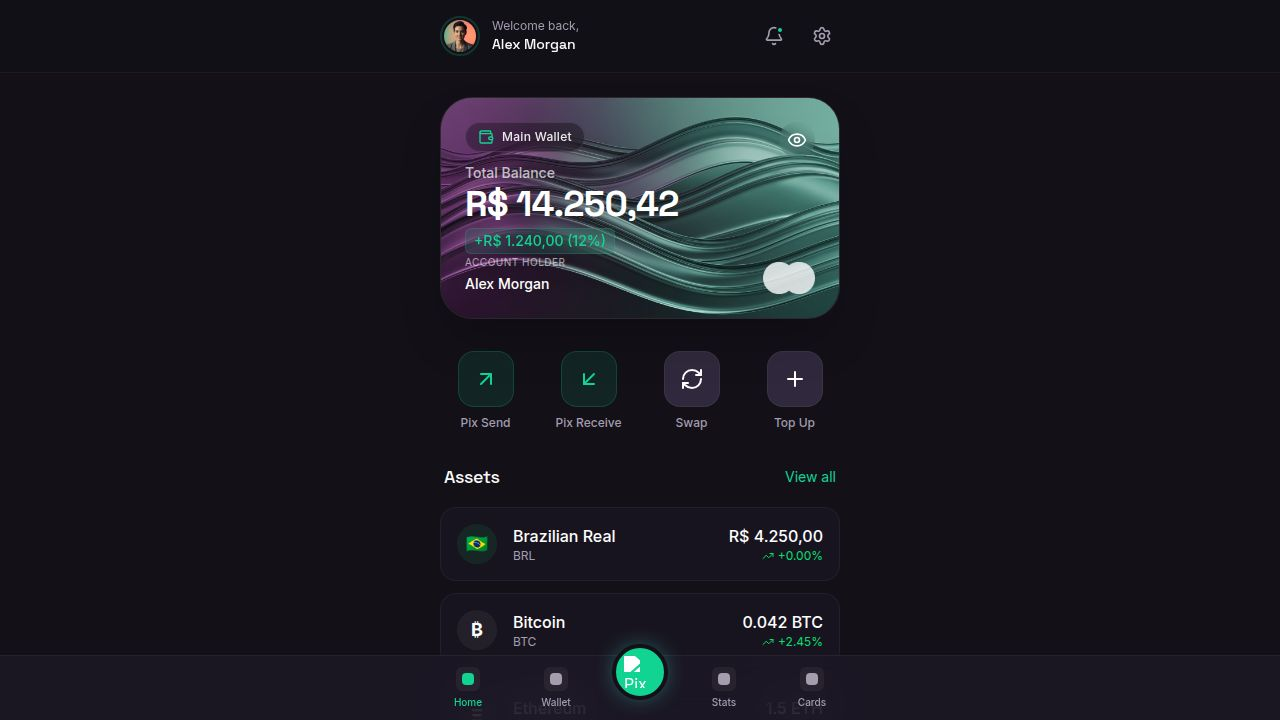
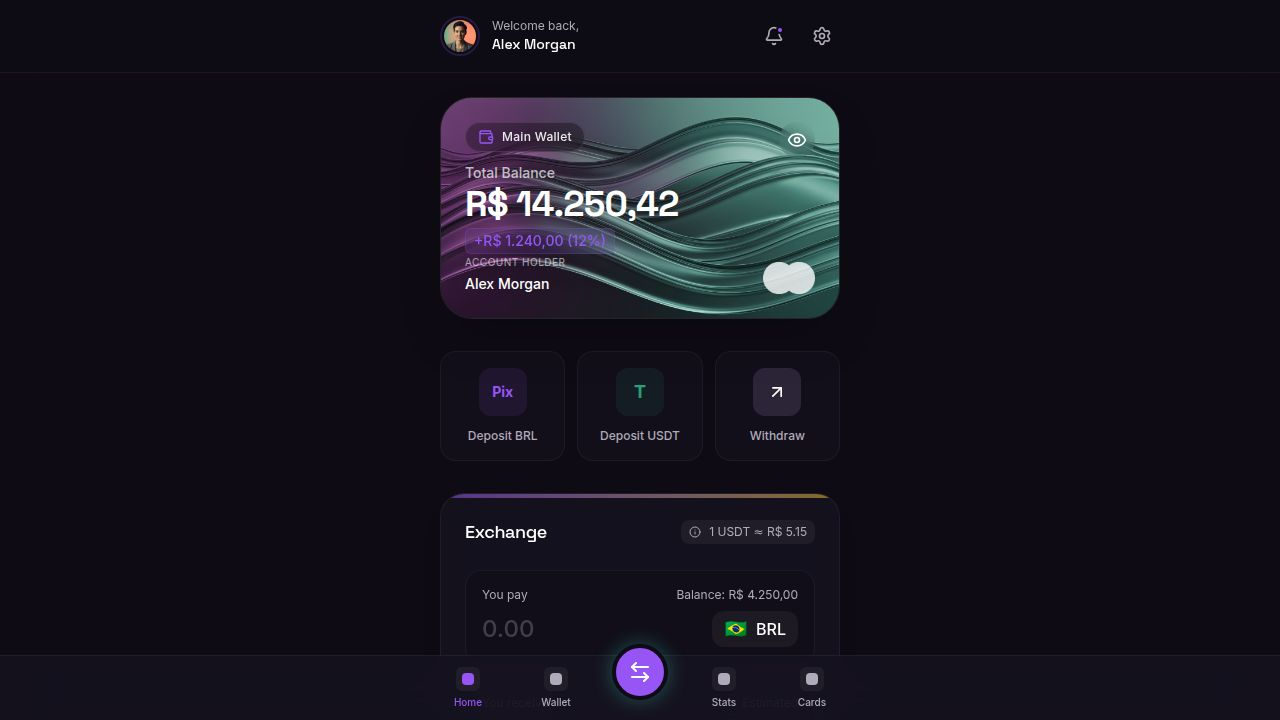
Rebrand the application to Otsem Pay with new visual identity
Update application name, logo, and color scheme across various components, including the welcome screen, authentication page, and global CSS variables to reflect the new Otsem Pay branding.

Replit-Commit-Author: Agent
Replit-Commit-Session-Id: dfc3b8e4-6037-4ea7-bff7-f856124784c7
Replit-Commit-Checkpoint-Type: full_checkpoint
Replit-Commit-Event-Id: 7baedd3e-aabb-4c53-a087-f94e5cf47044
Replit-Commit-Screenshot-Url: https://storage.googleapis.com/screenshot-production-us-central1/30512e0b-ed53-48b6-a74d-8db04d5b028a/dfc3b8e4-6037-4ea7-bff7-f856124784c7/8QmaOEe

diff --git a/client/src/pages/auth.tsx b/client/src/pages/auth.tsx
@@ -4,7 +4,7 @@ import { Button } from "@/components/ui/button";
 import { Input } from "@/components/ui/input";
 import { ArrowRight, Mail, Lock, User, Eye, EyeOff, Users } from "lucide-react";
 import { useLocation } from "wouter";
-import bgImage from "@assets/generated_images/abstract_dark_purple_and_neon_green_3d_glass_waves_for_crypto_card_background.png";
+import logo from "@assets/Untitled_1764830265098.png";
 
 export default function Auth() {
   const [isLogin, setIsLogin] = useState(true);
@@ -20,23 +20,17 @@ export default function Auth() {
   };
 
   return (
-    <div className="min-h-screen bg-background text-foreground flex flex-col relative overflow-hidden">
+    <div className="min-h-screen bg-otsem-gradient text-foreground flex flex-col relative overflow-hidden">
       {/* Background Accent */}
-      <div className="absolute inset-0 z-0 opacity-20">
-         <div 
-            className="absolute inset-0 bg-cover bg-center"
-            style={{ backgroundImage: `url(${bgImage})` }}
-          />
-          <div className="absolute inset-0 bg-gradient-to-b from-background via-background/90 to-background" />
+      <div className="absolute inset-0 z-0">
+          <div className="absolute top-0 left-0 w-full h-1/2 bg-gradient-to-b from-primary/10 to-transparent" />
+          <div className="absolute bottom-0 right-0 w-full h-1/2 bg-gradient-to-t from-accent/5 to-transparent" />
       </div>
 
       <div className="relative z-10 flex-1 flex flex-col p-6">
         {/* Header */}
-        <div className="pt-12 pb-8 text-center">
-          <div className="w-16 h-16 bg-primary rounded-2xl flex items-center justify-center mx-auto mb-6 shadow-[0_0_30px_rgba(50,188,173,0.3)] rotate-3">
-             <img src="https://upload.wikimedia.org/wikipedia/commons/thumb/d/d0/Pix_logo_2020.svg/2560px-Pix_logo_2020.svg.png" className="w-8 h-8 invert brightness-0" alt="Logo" />
-          </div>
-          <h1 className="text-3xl font-display font-bold mb-2">PixVault</h1>
+        <div className="pt-12 pb-8 text-center flex flex-col items-center">
+          <img src={logo} alt="Otsem Pay" className="w-32 h-auto mb-6 drop-shadow-lg" />
           <p className="text-muted-foreground text-sm">The future of crypto payments</p>
         </div>
 
@@ -129,7 +123,7 @@ export default function Auth() {
               </div>
             )}
 
-            <Button className="w-full h-14 text-lg rounded-xl bg-primary text-primary-foreground hover:bg-primary/90 mt-4 shadow-[0_4px_20px_rgba(50,188,173,0.2)]">
+            <Button className="w-full h-14 text-lg rounded-xl bg-primary text-white hover:bg-primary/90 mt-4 shadow-[0_4px_20px_rgba(139,92,246,0.2)] font-bold">
               {isLogin ? "Sign In" : "Create Account"}
               <ArrowRight className="w-5 h-5 ml-2" />
             </Button>

diff --git a/client/src/pages/welcome.tsx b/client/src/pages/welcome.tsx
@@ -1,0 +1,63 @@
+import { motion } from "framer-motion";
+import { Button } from "@/components/ui/button";
+import { useLocation } from "wouter";
+import logo from "@assets/Untitled_1764830265098.png";
+
+export default function Welcome() {
+  const [, setLocation] = useLocation();
+
+  return (
+    <div className="min-h-screen bg-otsem-gradient text-foreground flex flex-col relative overflow-hidden">
+      {/* Background decorative elements */}
+      <div className="absolute top-[-20%] left-[-20%] w-[80%] h-[80%] bg-primary/20 blur-[120px] rounded-full pointer-events-none mix-blend-screen" />
+      <div className="absolute bottom-[-20%] right-[-20%] w-[80%] h-[80%] bg-accent/10 blur-[120px] rounded-full pointer-events-none mix-blend-screen" />
+
+      <div className="flex-1 flex flex-col items-center justify-center p-8 relative z-10">
+        <motion.div
+          initial={{ scale: 0.8, opacity: 0 }}
+          animate={{ scale: 1, opacity: 1 }}
+          transition={{ duration: 0.8, ease: "easeOut" }}
+          className="mb-12"
+        >
+          <img src={logo} alt="Otsem Pay" className="w-48 h-auto drop-shadow-2xl" />
+        </motion.div>
+
+        <motion.div
+          initial={{ y: 20, opacity: 0 }}
+          animate={{ y: 0, opacity: 1 }}
+          transition={{ delay: 0.3, duration: 0.6 }}
+          className="text-center space-y-4 max-w-xs"
+        >
+          <h1 className="text-4xl font-display font-bold tracking-tight">
+            Future of <span className="text-gradient">Payments</span>
+          </h1>
+          <p className="text-muted-foreground text-lg">
+            Seamlessly manage BRL, Pix, and Crypto in one beautiful app.
+          </p>
+        </motion.div>
+      </div>
+
+      <motion.div
+        initial={{ y: 50, opacity: 0 }}
+        animate={{ y: 0, opacity: 1 }}
+        transition={{ delay: 0.6, duration: 0.6 }}
+        className="p-8 w-full max-w-md mx-auto space-y-4 relative z-10"
+      >
+        <Button 
+          className="w-full h-16 text-lg rounded-2xl bg-primary text-white hover:bg-primary/90 shadow-[0_0_20px_rgba(139,92,246,0.3)] font-bold transition-all hover:scale-[1.02]"
+          onClick={() => setLocation("/auth")}
+        >
+          Get Started
+        </Button>
+        
+        <Button 
+          variant="outline" 
+          className="w-full h-16 text-lg rounded-2xl border-white/10 bg-white/5 hover:bg-white/10 text-white backdrop-blur-md transition-all hover:scale-[1.02]"
+          onClick={() => setLocation("/auth")}
+        >
+          I have an account
+        </Button>
+      </motion.div>
+    </div>
+  );
+}

diff --git a/client/src/index.css b/client/src/index.css
@@ -7,33 +7,35 @@
   --font-sans: "Inter", sans-serif;
   --font-display: "Space Grotesk", sans-serif;
 
-  --color-background: hsl(260 20% 8%);
-  --color-foreground: hsl(0 0% 98%);
+  --color-background: hsl(260 30% 6%);
+  --color-foreground: hsl(0 0% 100%);
 
-  --color-card: hsl(260 20% 12%);
-  --color-card-foreground: hsl(0 0% 98%);
+  --color-card: hsl(260 25% 10%);
+  --color-card-foreground: hsl(0 0% 100%);
 
-  --color-popover: hsl(260 20% 12%);
-  --color-popover-foreground: hsl(0 0% 98%);
+  --color-popover: hsl(260 25% 10%);
+  --color-popover-foreground: hsl(0 0% 100%);
 
-  --color-primary: hsl(160 85% 45%); /* Pix Green / Neon Mint */
-  --color-primary-foreground: hsl(260 20% 8%);
+  /* Purple from Logo - Primary Action Color */
+  --color-primary: hsl(265 90% 65%);
+  --color-primary-foreground: hsl(0 0% 100%);
 
-  --color-secondary: hsl(260 20% 20%);
-  --color-secondary-foreground: hsl(0 0% 98%);
+  --color-secondary: hsl(260 20% 18%);
+  --color-secondary-foreground: hsl(0 0% 100%);
 
-  --color-muted: hsl(260 20% 20%);
-  --color-muted-foreground: hsl(260 10% 65%);
+  --color-muted: hsl(260 20% 18%);
+  --color-muted-foreground: hsl(260 10% 70%);
 
-  --color-accent: hsl(270 80% 60%);
-  --color-accent-foreground: hsl(0 0% 98%);
+  /* Yellow/Gold from Logo - Accent/Highlight */
+  --color-accent: hsl(45 95% 55%);
+  --color-accent-foreground: hsl(260 40% 5%);
 
   --color-destructive: hsl(0 80% 60%);
-  --color-destructive-foreground: hsl(0 0% 98%);
+  --color-destructive-foreground: hsl(0 0% 100%);
 
-  --color-border: hsl(260 20% 20%);
-  --color-input: hsl(260 20% 20%);
-  --color-ring: hsl(160 85% 45%);
+  --color-border: hsl(260 20% 18%);
+  --color-input: hsl(260 20% 18%);
+  --color-ring: hsl(265 90% 65%);
 
   --radius: 1rem;
 }
@@ -60,9 +62,18 @@
     @apply bg-card/80 backdrop-blur-md border border-white/5 shadow-xl;
   }
   .text-gradient {
-    @apply bg-clip-text text-transparent bg-gradient-to-r from-white to-white/60;
+    @apply bg-clip-text text-transparent bg-gradient-to-r from-accent to-primary;
   }
   .text-gradient-primary {
     @apply bg-clip-text text-transparent bg-gradient-to-r from-primary to-accent;
+  }
+  
+  /* Otsem Pay Specific Gradients */
+  .bg-otsem-gradient {
+    @apply bg-gradient-to-br from-background via-[#1a0b2e] to-[#120820];
+  }
+  
+  .bg-card-gradient {
+    @apply bg-gradient-to-br from-card via-card/90 to-[#2a1b3d]/50;
   }
 }

diff --git a/client/index.html b/client/index.html
@@ -4,14 +4,14 @@
     <meta charset="UTF-8" />
     <meta name="viewport" content="width=device-width, initial-scale=1.0, maximum-scale=1" />
 
-    <title>PixVault | Crypto & Pix Wallet</title>
-    <meta property="og:title" content="PixVault | Crypto & Pix Wallet" />
+    <title>Otsem Pay | Crypto & Pix Wallet</title>
+    <meta property="og:title" content="Otsem Pay | Crypto & Pix Wallet" />
     <meta property="og:description" content="The future of payments. Manage BRL, Pix, and Crypto in one place." />
     <meta property="og:type" content="website" />
     <meta property="og:image" content="https://replit.com/public/images/opengraph.png" />
     <meta name="twitter:card" content="summary_large_image" />
     <meta name="twitter:site" content="@replit" />
-    <meta name="twitter:title" content="PixVault | Crypto & Pix Wallet" />
+    <meta name="twitter:title" content="Otsem Pay | Crypto & Pix Wallet" />
     <meta name="twitter:description" content="The future of payments. Manage BRL, Pix, and Crypto in one place." />
     <meta name="twitter:image" content="https://replit.com/public/images/opengraph.png" />
 

diff --git a/client/src/App.tsx b/client/src/App.tsx
@@ -17,11 +17,13 @@ import ExchangeSuccess from "@/pages/exchange-success";
 import Wallet from "@/pages/wallet";
 import Cards from "@/pages/cards";
 import Stats from "@/pages/stats";
+import Welcome from "@/pages/welcome";
 import NotFound from "@/pages/not-found";
 
 function Router() {
   return (
     <Switch>
+      <Route path="/welcome" component={Welcome} />
       <Route path="/auth" component={Auth} />
       <Route path="/" component={Dashboard} />
       <Route path="/profile" component={Profile} />
